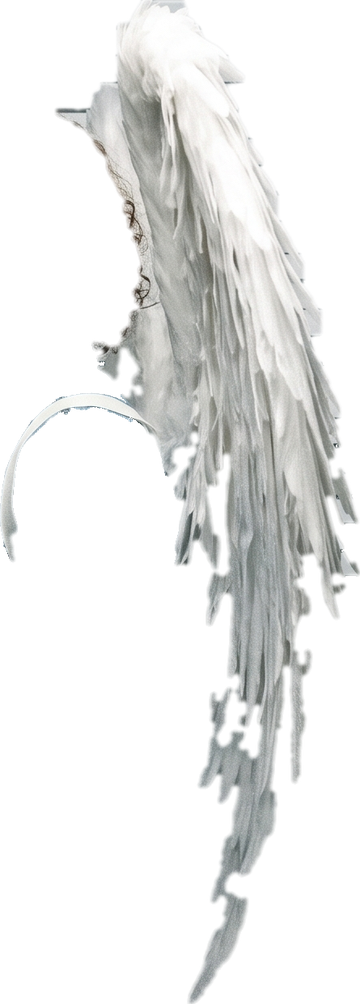
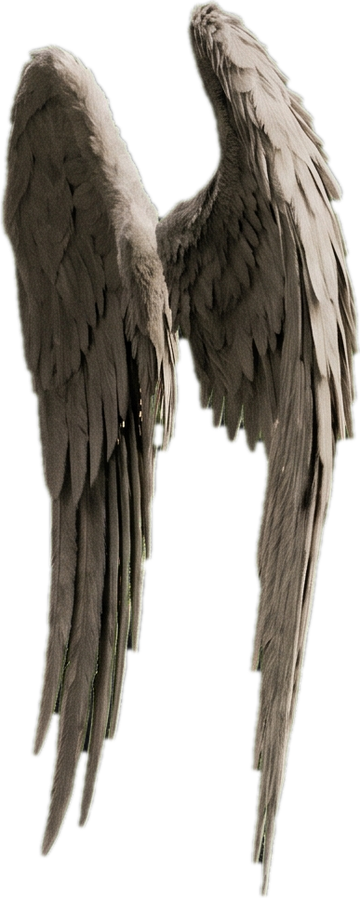
11_pose_skeleton: distinct front/rear/profile wings from green-screen mugshot (chroma-keyed); swap by facing+yaw

diff --git a/11_pose_skeleton/index.html b/11_pose_skeleton/index.html
@@ -307,7 +307,6 @@ function getCss(v){ return cssCache[v] ?? (cssCache[v]=getComputedStyle(document
 /* ── 자동 날개 장착 ──────────────────────────────────────────────
    실제 날개 이미지(wing_white.png)를 어깨(11=왼,12=오른)에 맞춰
    부착·회전·펄럭이며 그린다. 로딩 전에는 벡터 날개로 폴백. */
-const WING_AX=0.985, WING_AY=0.458, WING_K=1.55;  // 부착점(뿌리) + 크기(몸통길이 배수)
 
 /* ── 파티클(불씨/빛가루) ── 어깨·날개 주변에서 피어올라 발광 */
 let particles=[];
@@ -375,68 +374,52 @@ function stepParticles(){
   }
   ctx.restore();
 }
-const wingImg=new Image(); let wingReady=false;
-wingImg.onload=()=>{ wingReady=true; };
-wingImg.src='wing_white.png';
-// 머그샷 참고: 옆으로 틀면 쓰는 '프로필(측면)' 날개
-const wingProf=new Image(); let profReady=false;
-wingProf.onload=()=>{ profReady=true; };
-wingProf.src='wing_profile.png';
-const PROF_AX=0.454, PROF_AY=0.06, PROF_K=0.9;
+// 그린스크린 머그샷에서 뽑은 3각도 날개(각 이미지에 좌우 한 쌍 포함)
+function loadWing(src,ax,ay){ const im=new Image(); const o={im,ax,ay,ready:false}; im.onload=()=>o.ready=true; im.src=src; return o; }
+const WFRONT =loadWing('wing_front.png',   0.5, 0.202);  // 정면 펼침
+const WREAR  =loadWing('wing_rear.png',    0.5, 0.195);  // 후면 펼침
+const WPROF  =loadWing('wing_profile.png', 0.5, 0.02);   // 측면 드리움
+const SET_K=2.5;   // 이미지(=날개 한 쌍) 폭 = 몸통 × SET_K
 
-let wingMode='spread';   // 'spread'(정면/후면) ↔ 'profile'(측면), 히스테리시스
+function drawSet(o,F,mirror,squash,flap){
+  if(!o.ready) return false;
+  const dw=F.scale*SET_K*squash, dh=F.scale*SET_K*o.im.height/o.im.width;
+  ctx.save();
+  ctx.shadowColor='rgba(140,225,255,0.45)'; ctx.shadowBlur=F.scale*0.18;
+  ctx.rotate(flap*0.12);                       // 은은한 살랑임
+  if(mirror) ctx.scale(-1,1);
+  ctx.drawImage(o.im, -o.ax*dw, -o.ay*dh, dw, dh);
+  ctx.restore();
+  return true;
+}
+
+let wingMode='front';   // 'front' ↔ 'rear' ↔ 'profile' (히스테리시스)
 function drawWings(lm){
   const L=lm[11], R=lm[12];
   if(!L||!R || (L.visibility!=null && L.visibility<0.3 && R.visibility<0.3)) return;
   const F=poseFrame(lm); if(!F || F.scale<10) return;
-  const flap=Math.sin(performance.now()/260)*0.11;   // ±약6° 펄럭임
-  // 얼마나 틀었나(정면도)로 모드 전환 — 깜빡임 방지 히스테리시스
-  if(F.frontal < 0.34) wingMode='profile';
-  else if(F.frontal > 0.52) wingMode='spread';
+  const flap=Math.sin(performance.now()/260);
+  // 각도로 모드 결정: 많이 틀면 profile, 아니면 정면/후면
+  if(F.frontal < 0.32) wingMode='profile';
+  else if(F.frontal > 0.5) wingMode = facingFront(lm) ? 'front' : 'rear';
 
   ctx.save();
   ctx.translate(F.ax,F.ay);                 // 등 위쪽 부착점
   ctx.rotate(F.ang);                        // 몸 기울기
-  if(wingMode==='profile' && profReady){
-    // 측면: 한쪽 날개가 등 뒤로 드리움 (머그샷 PROFILE)
-    const dw=F.scale*PROF_K, dh=dw*wingProf.height/wingProf.width;
-    const axp=PROF_AX*dw, ayp=PROF_AY*dh;
-    ctx.shadowColor='rgba(140,225,255,0.5)'; ctx.shadowBlur=F.scale*0.2;
-    ctx.rotate(flap*0.4);                   // 살랑임
-    if(!F.faceLeft) ctx.scale(-1,1);        // 얼굴이 오른쪽이면 좌우반전(등이 왼쪽)
-    ctx.drawImage(wingProf, -axp, -ayp, dw, dh);
-  } else if(wingReady){
-    ctx.scale(F.frontal,1);                 // yaw: 살짝 틀면 가로 압축
-    ctx.shadowColor='rgba(140,225,255,0.5)';
-    ctx.shadowBlur=F.scale*0.2;
-    const rightNear = F.zR < F.zL;          // 가까운 어깨 날개를 크게+위에 → 원근감
-    const near=1.12, far=0.9;
-    if(rightNear){
-      wingBlit(F.scale*far ,false,flap);
-      wingBlit(F.scale*near,true ,flap);
-    }else{
-      wingBlit(F.scale*far ,true ,flap);
-      wingBlit(F.scale*near,false,flap);
-    }
+  let ok;
+  if(wingMode==='profile'){
+    ok=drawSet(WPROF,F, !F.faceLeft, 1, flap);   // 측면(얼굴방향 따라 반전)
+  }else if(wingMode==='rear'){
+    ok=drawSet(WREAR,F, false, Math.max(F.frontal,0.35), flap);
   }else{
-    ctx.shadowColor='rgba(120,220,255,0.55)';
-    ctx.shadowBlur=F.scale*0.3;
+    ok=drawSet(WFRONT,F, false, Math.max(F.frontal,0.35), flap);
+  }
+  if(!ok){   // 이미지 로딩 전 폴백(벡터)
+    ctx.shadowColor='rgba(120,220,255,0.55)'; ctx.shadowBlur=F.scale*0.3;
     const f=(Math.sin(performance.now()/230)+1)/2;
     drawOneWing(F.scale*1.9,F.scale,f, 1);
     drawOneWing(F.scale*1.9,F.scale,f,-1);
   }
-  ctx.restore();
-}
-
-// 이미지 날개 한 장: 부착점을 원점에 두고 ±13° 벌려 그림
-function wingBlit(scale,mirror,flap){
-  const dw=scale*WING_K, dh=dw*wingImg.height/wingImg.width;
-  const axp=WING_AX*dw, ayp=WING_AY*dh;
-  const rot=(30*Math.PI/180)+flap;   // 어깨 위로 아치지게 벌림
-  ctx.save();
-  ctx.rotate(mirror? -rot : rot);
-  ctx.scale(mirror? -1 : 1, 1);             // scale이 안쪽(먼저 적용)=뒤집고 나서 회전
-  ctx.drawImage(wingImg, -axp, -ayp, dw, dh);
   ctx.restore();
 }
 
